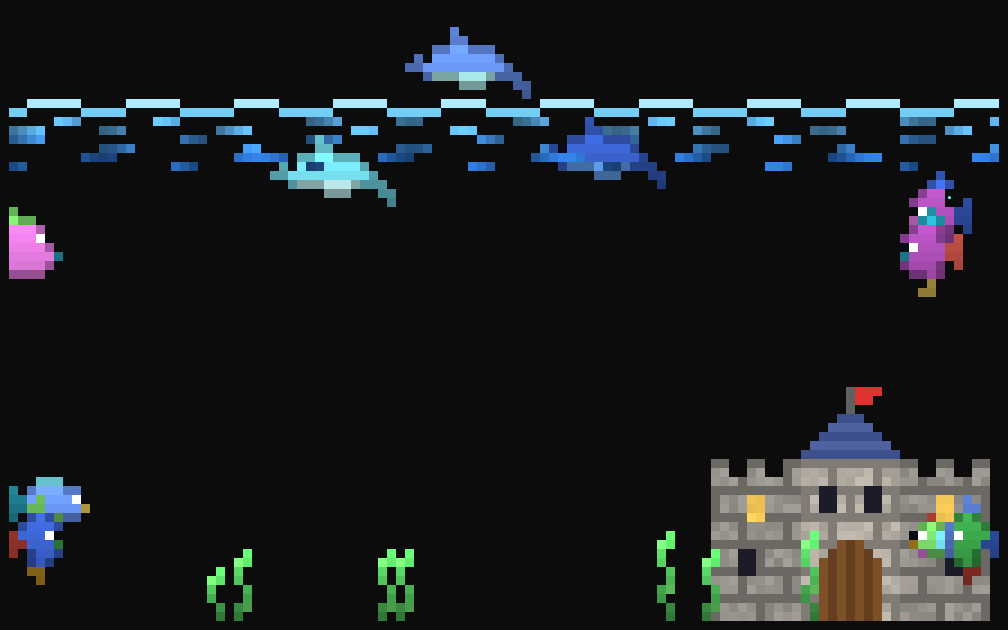
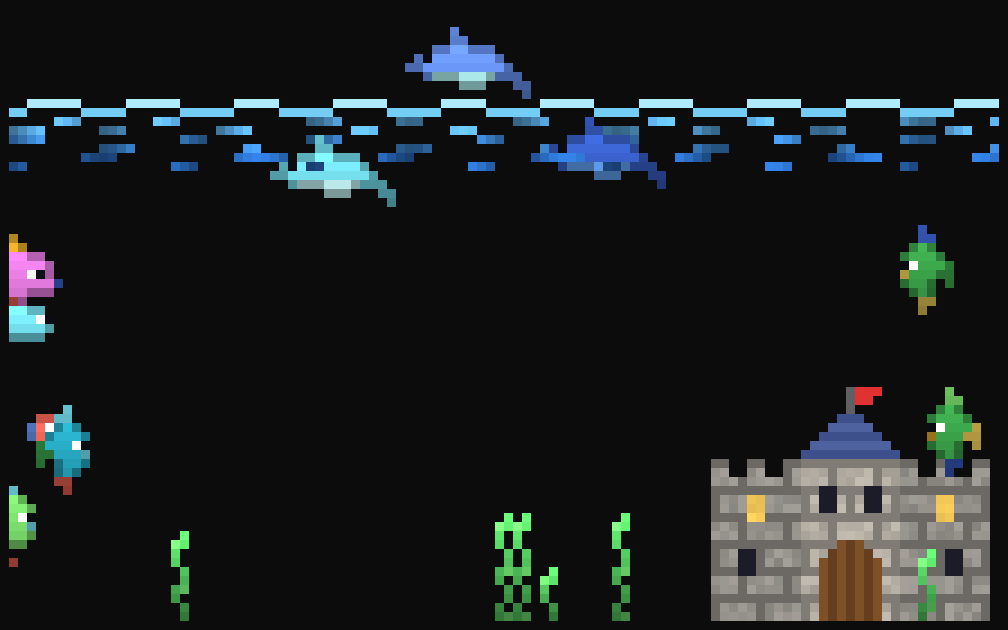
docs: high-resolution graphics mode, gallery and new measurements

diff --git a/README.md b/README.md
@@ -78,7 +78,7 @@ transparent: like in ASCII mode, the terminal's own background shows through.
 
 - Everything is pixel art drawn with half blocks (`▀`, `▄`), two pixels per cell: fish, castle,
   seaweed, the rolling water surface, and all the visitors (ship, whale and its spout, sea
-  monster, big fish, shark and its splat, fishhook, swan, ducks, dolphins). Each sprite takes up
+  monster swimming in a sine wave, big fish, shark and its splat, fishhook, swan, ducks, dolphins). Each sprite takes up
   exactly the cells of its ASCII version, so the animation and collisions don't change.
 - Two things stay as characters, because a whole cell would be too coarse for them: the
   bubbles (`·` `◦` `○`) and the fishing line (`│`).
@@ -123,13 +123,29 @@ To always spawn the same random object (handy for debugging), set `FISHIES_OBJEC
 
 On terminals that can show images, `a` has a third step: the scene is drawn with real pixels
 instead of characters, using [Sixel](https://en.wikipedia.org/wiki/Sixel) or the
-[kitty graphics protocol](https://sw.kovidgoyal.net/kitty/graphics-protocol/). It uses the same pixel art, but
-sprites move pixel by pixel instead of cell by cell, the pixels are crisp (no gaps between half
-blocks), bubbles are rings and the fishing line is one pixel thin. The water stays transparent.
+[kitty graphics protocol](https://sw.kovidgoyal.net/kitty/graphics-protocol/). The water stays transparent.
+
+- **Four times the resolution of ANSI mode** in each direction: 4 x 8 pixels per cell, each
+  about 2.5 x 2.5 screen pixels on a typical 10 x 20 pixel cell. Sprites drawn from shapes (ship,
+  whale, shark, big fish, sea monster) are redrawn at that resolution, with smooth curves and
+  extra details such as rigging, fin rays, throat grooves and pointed teeth. Grid sprites (fish,
+  ducks, swan, dolphins, the hook) are enlarged with Scale2x, which smooths their diagonals instead
+  of making bigger blocks. The castle gets smaller bricks, roof shingles, arched windows and a
+  planked gate; the water a smooth rolling wave and thin ripples.
+- Sprites move pixel by pixel instead of cell by cell.
+- Bubbles are rings and the fishing line is one pixel thin.
 
 | Graphics mode | Over a wallpaper |
 |---------------|------------------|
 | ![shark, graphics mode](docs/screenshots/graphics-shark.png) | ![ship over a wallpaper, graphics mode](docs/screenshots/graphics-transparent.png) |
+
+Every visitor in graphics mode:
+
+| | | |
+|---|---|---|
+| ![ship](docs/screenshots/graphics-ship.png) | ![whale](docs/screenshots/graphics-whale.png) | ![sea monster](docs/screenshots/graphics-monster.png) |
+| ![big fish](docs/screenshots/graphics-big_fish.png) | ![shark](docs/screenshots/graphics-shark.png) | ![fishhook](docs/screenshots/graphics-fishhook.png) |
+| ![swan](docs/screenshots/graphics-swan.png) | ![ducks](docs/screenshots/graphics-ducks.png) | ![dolphins](docs/screenshots/graphics-dolphins.png) |
 
 ### Which terminals
 
@@ -178,8 +194,9 @@ graphics protocol*. Nothing breaks, and there's nothing to configure.
 
 The image covers every row but the last one, because a Sixel image that touches the bottom of
 the screen makes the terminal scroll. The last row is drawn in ANSI mode and shows the messages.
-A 120 x 40 terminal makes 1200 x 780 pixel frames: about 20 KB and 7 ms each with Sixel, 70 KB
-with the kitty protocol, which is fine locally but may stutter over a slow SSH connection.
+A 120 x 40 terminal makes 1200 x 780 pixel frames: about 35 KB and 5 ms each with Sixel, 100 KB
+with the kitty protocol (measured with `cargo test --release graphics_frames -- --ignored
+--nocapture`). That is fine locally, but may stutter over a slow SSH connection.
 
 ## Development and releases
 
